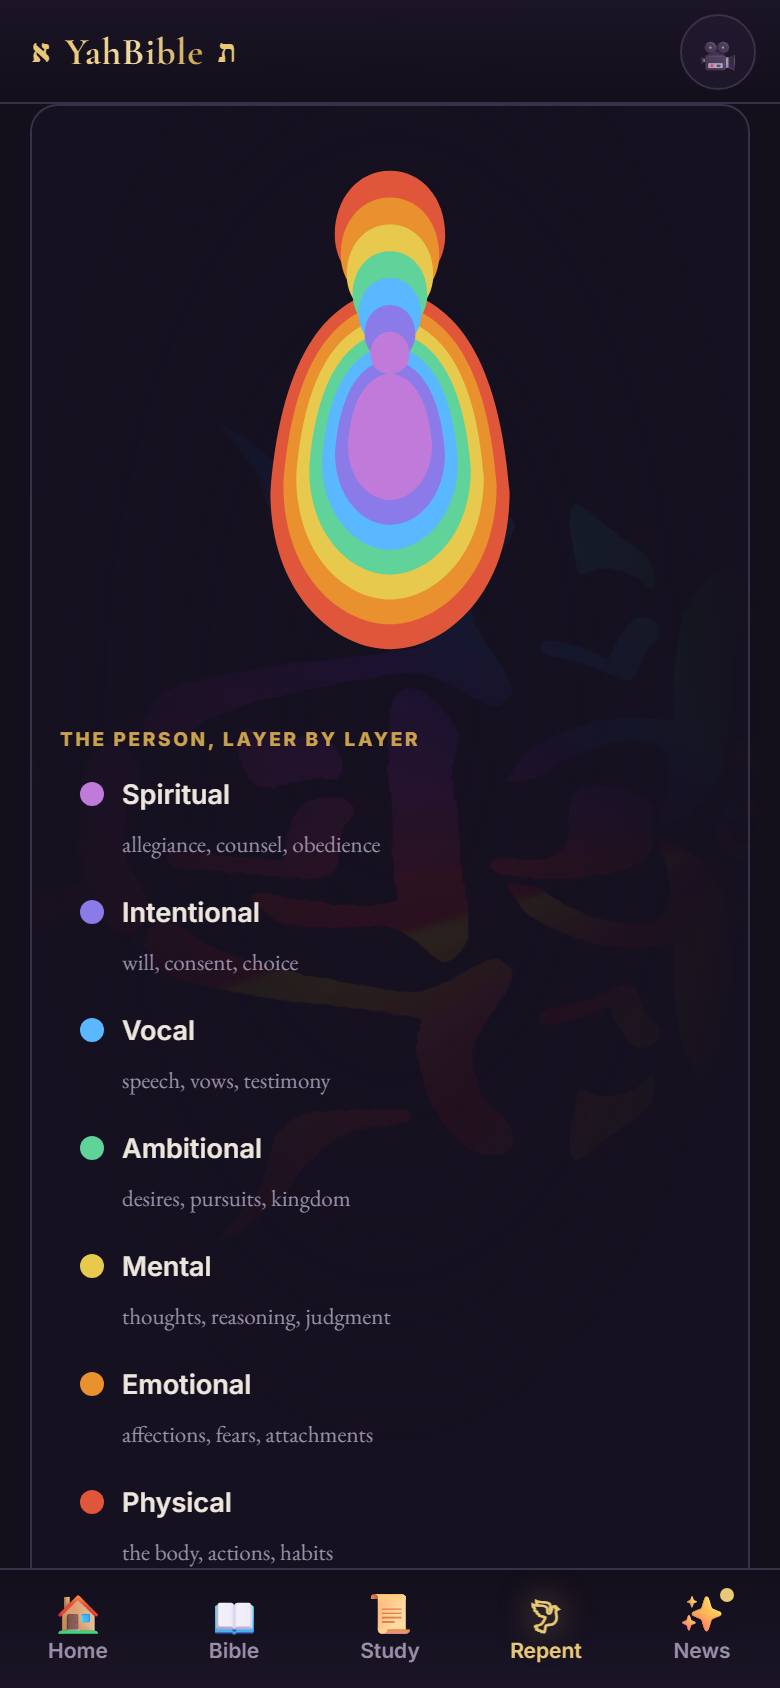
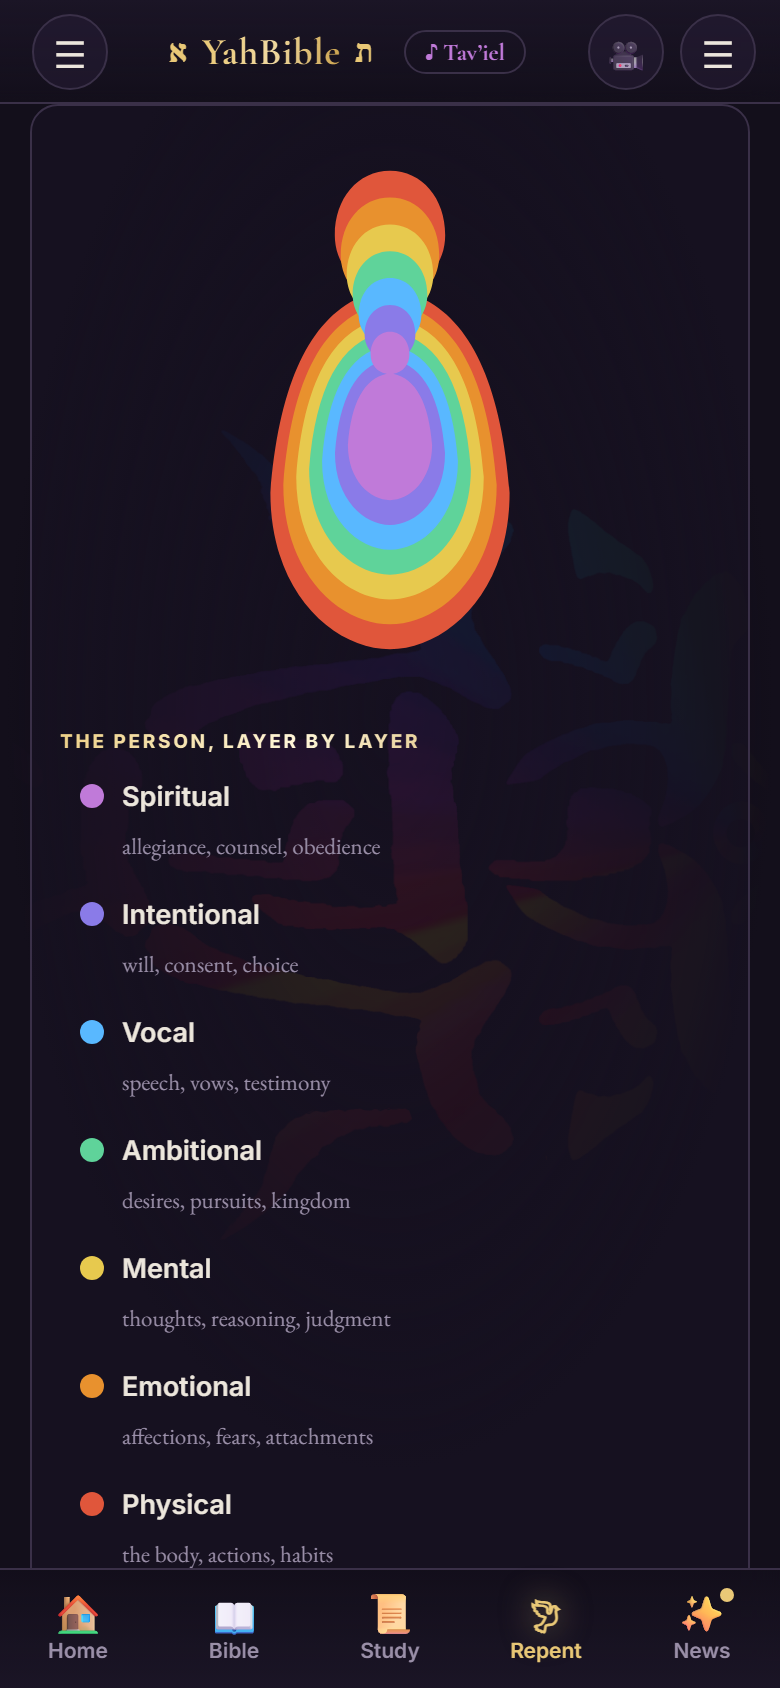
docs: add sources + verse-study screenshots; refresh Bible/repentance shots

diff --git a/README.md b/README.md
@@ -34,6 +34,15 @@ link that opens the reader at that exact verse.
 
 <img src="docs/screenshots/02-bible-reader.png" width="300" alt="Offline KJV Bible reader">
 
+### The full study desk — sources & word study, like the desktop
+A **sources** menu on the left (every book, and — connected to your desktop — the Ethiopian
+Apocrypha, the Red Letter Words, the Enoch and Gnostic scriptures, and 120+ versions), and a
+**verse-study** panel on the right: tap any verse to see its words, compare versions, and open the
+original Hebrew or Greek. When paired with your desktop, the full engine comes live.
+
+<img src="docs/screenshots/09-sources.png" width="290" alt="Sources menu">
+<img src="docs/screenshots/10-verse-study.png" width="290" alt="Verse study panel">
+
 ### The Ten Commandments — studied as questions
 Each commandment opens as a study of clear questions — *“What is Adultery?”*, *“How do you keep this
 commandment?”*, and *“How is it broken?”* — answered plainly, with the scripture behind each answer.
